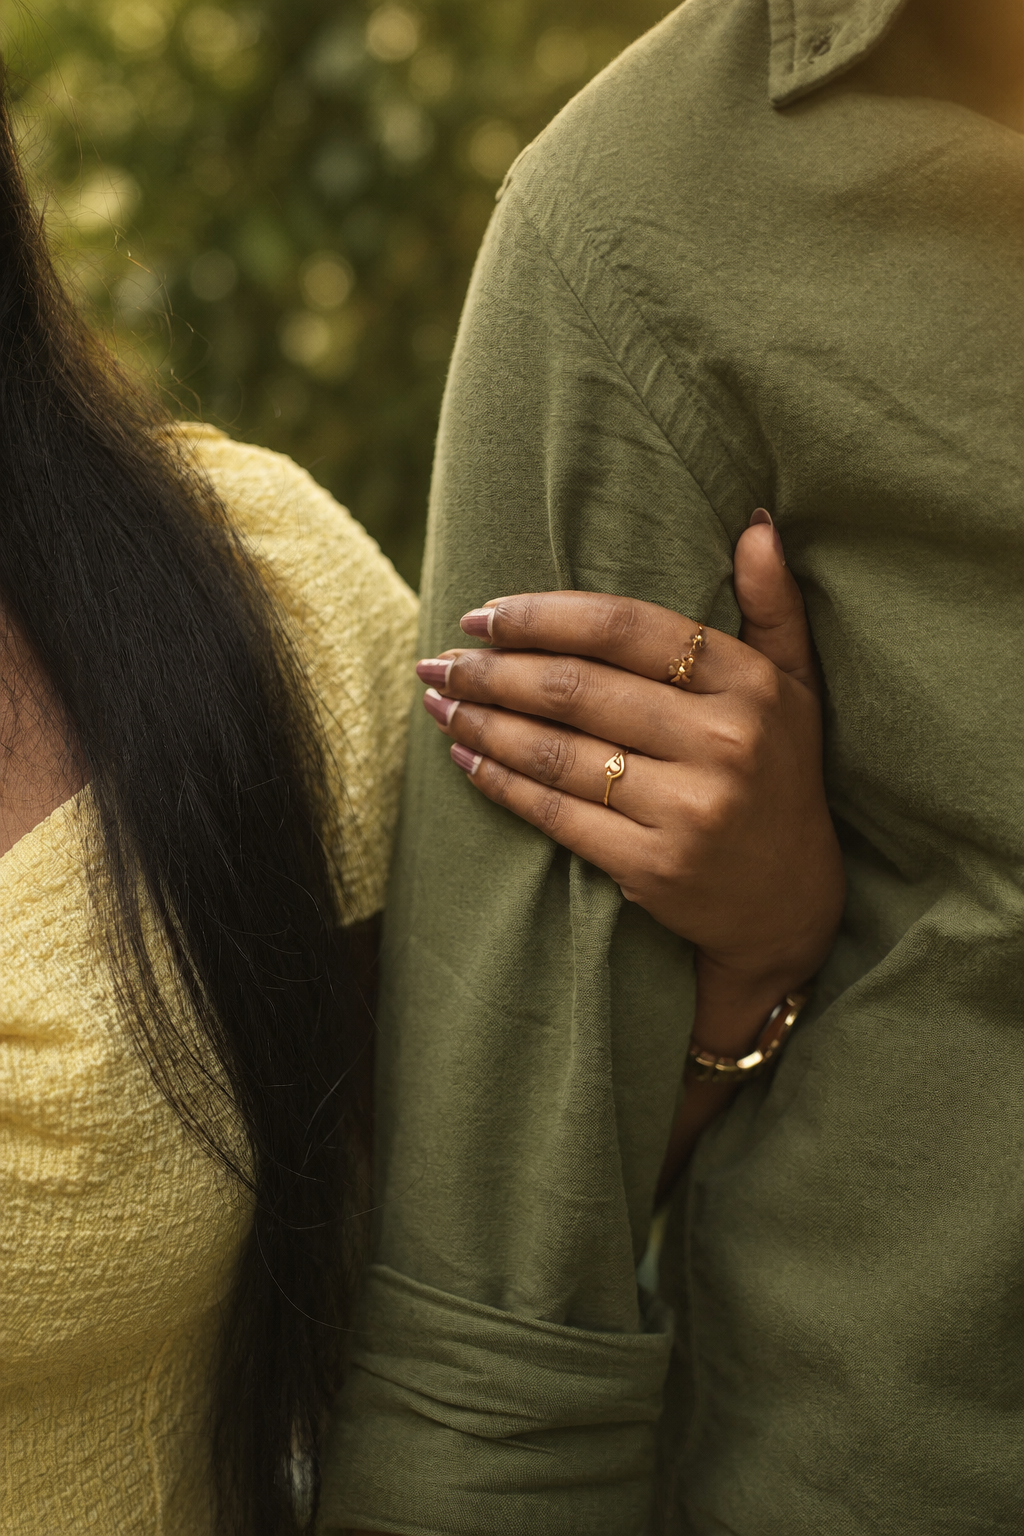
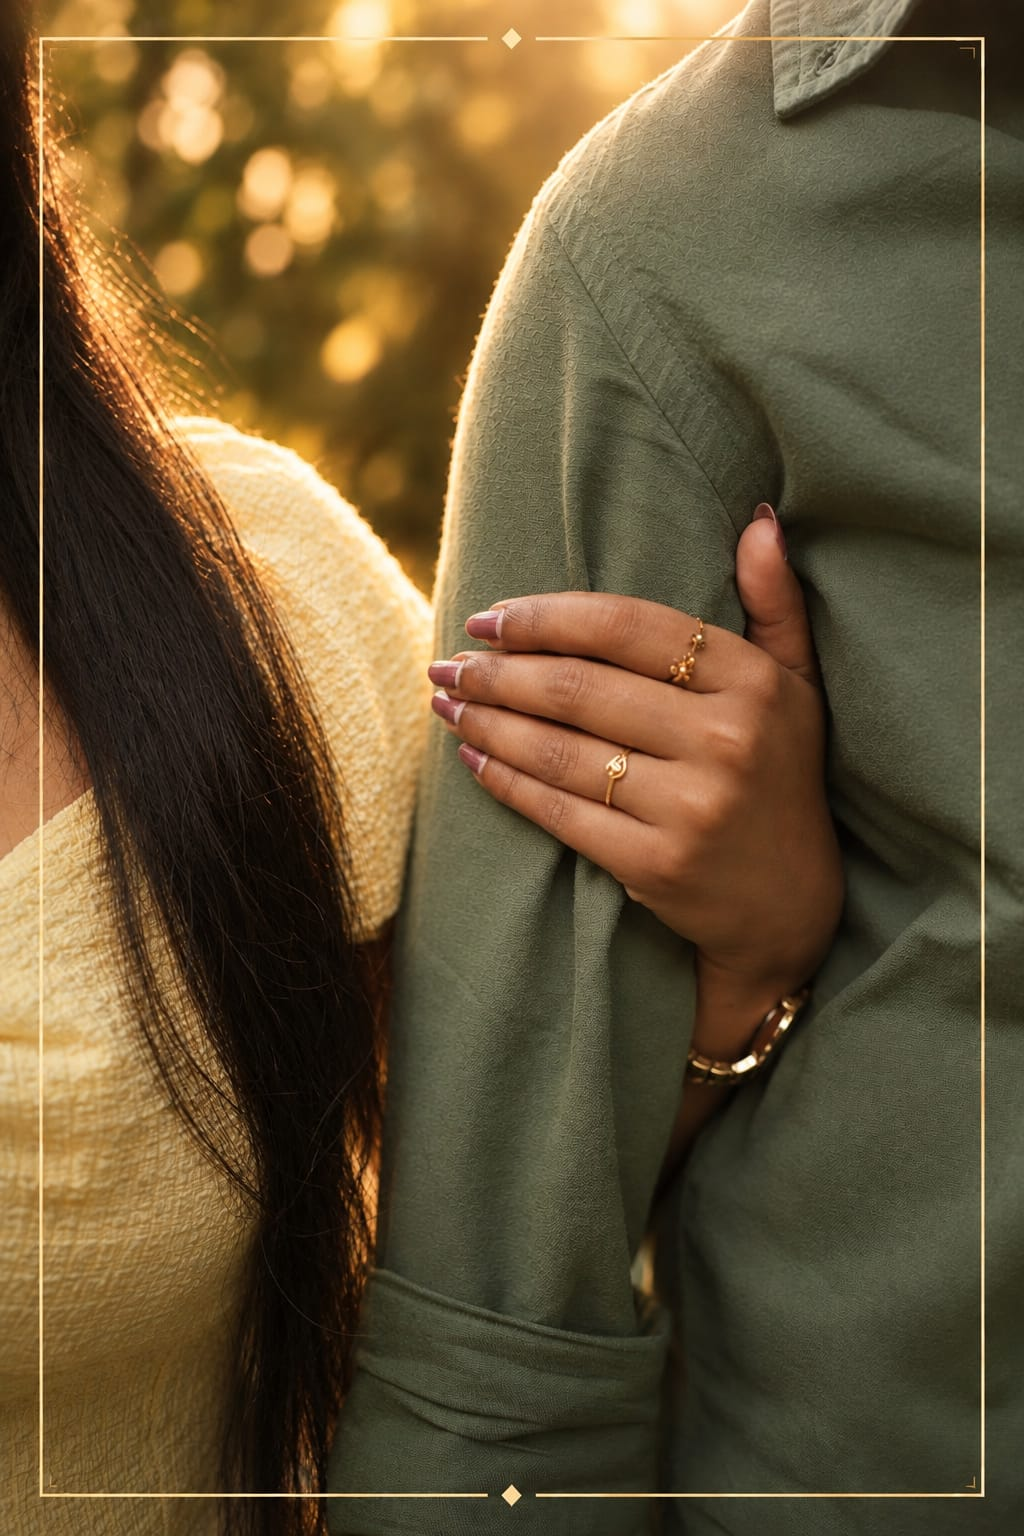
update project

diff --git a/Wedding_Invitation/src/App.jsx b/Wedding_Invitation/src/App.jsx
@@ -40,7 +40,6 @@ function App() {
   const [opened, setOpened] = useState(false);
   const [playing, setPlaying] = useState(false);
   const [musicMuted, setMusicMuted] = useState(false);
-  const [musicNeedsTap, setMusicNeedsTap] = useState(false);
   const [musicPlaybackError, setMusicPlaybackError] = useState(false);
   const [musicUnavailable, setMusicUnavailable] = useState(false);
   const [countdown, setCountdown] = useState(() => getCountdown());
@@ -71,36 +70,21 @@ function App() {
       try {
         await audio.play();
         if (isMounted) {
-          setMusicNeedsTap(false);
           setMusicPlaybackError(false);
         }
       } catch (error) {
         if (!isMounted || error?.name === "AbortError") return;
-        if (error?.name === "NotAllowedError") {
-          setMusicNeedsTap(true);
-        } else {
-          console.error("Wedding music could not be played.", error);
-          setMusicPlaybackError(true);
-        }
+        console.error("Wedding music could not be played.", error);
+        setMusicPlaybackError(true);
       } finally {
         playRequested = false;
       }
     };
     startMusicRef.current = startMusic;
 
-    const startAfterInteraction = (event) => {
-      if (event.target instanceof Element && event.target.closest(".music-button")) return;
-      void startMusic();
-    };
-    window.addEventListener("pointerdown", startAfterInteraction);
-    window.addEventListener("keydown", startAfterInteraction);
-    void startMusic();
-
     return () => {
       isMounted = false;
       startMusicRef.current = null;
-      window.removeEventListener("pointerdown", startAfterInteraction);
-      window.removeEventListener("keydown", startAfterInteraction);
     };
   }, []);
 
@@ -212,6 +196,7 @@ function App() {
 
   const openInvite = () => {
     setOpened(true);
+    void startMusicRef.current?.();
   };
 
   const sendWish = async (event) => {
@@ -264,7 +249,6 @@ function App() {
     audio.muted = false;
     musicMutedRef.current = false;
     setMusicMuted(false);
-    setMusicNeedsTap(false);
     await startMusicRef.current?.();
   };
 
@@ -273,20 +257,35 @@ function App() {
       <section className={`cover ${opened ? "is-open" : "is-closed"}`} aria-label={wedding.copy.coverAria}>
         <img className="cover__image" src={wedding.media.cover} alt={wedding.media.coverDescription} fetchPriority="high" />
         <div className="cover__veil" />
-        <div className="cover__rule" aria-hidden="true"><span>✳</span></div>
+        <div className="cover__rule" aria-hidden="true" />
         <div className="cover__content">
           <p className="eyebrow cover__eyebrow">{wedding.copy.coverEyebrow}</p>
-          <p className="cover__invitation">{wedding.copy.coverIntro}</p>
-          <h1 className="cover__names shine">{coupleName}</h1>
+          <div className="cover__ornament cover__ornament--flower" aria-hidden="true">
+            <span className="cover__ornament-line" />
+            <svg viewBox="0 0 24 24"><g fill="none" stroke="currentColor" strokeWidth=".8"><ellipse cx="12" cy="5.2" rx="2.1" ry="3.2" /><ellipse cx="12" cy="5.2" rx="2.1" ry="3.2" transform="rotate(60 12 12)" /><ellipse cx="12" cy="5.2" rx="2.1" ry="3.2" transform="rotate(120 12 12)" /><circle cx="12" cy="12" r="1.25" /></g></svg>
+            <span className="cover__ornament-line" />
+          </div>
+          <p className="cover__invitation">joyfully invite you to celebrate their wedding</p>
+          <h1 className="cover__names shine">Arun &amp; Anjali</h1>
           <span className="cover__ampersand" aria-hidden="true">&</span>
-          <p className="cover__date">{wedding.date.display}<span>{wedding.date.day} · {wedding.date.time}</span></p>
+          <div className="cover__ornament cover__ornament--sprig" aria-hidden="true">
+            <span className="cover__ornament-line" />
+            <svg viewBox="0 0 42 20"><g fill="none" stroke="currentColor" strokeWidth=".85" strokeLinecap="round" strokeLinejoin="round"><path d="M21 17.5C21 12.5 20.5 7.8 18.5 3"/><path d="M20 14C16.5 13.7 13 12.3 10.5 9.5c3.7-.5 6.8.5 9.5 3"/><path d="M20.5 10C24 9.4 27 7.8 29 5c-3.4-.2-6.5.9-8.5 3.7"/><path d="M20.5 7C18 6.2 16 4.9 14.8 2.8c2.8 0 4.9 1.2 6 3.2"/><path d="M21 14C24.2 14 27.3 15.2 29.8 17.4c-3.3.4-6.3-.6-8.8-2.8"/></g></svg>
+            <span className="cover__ornament-line" />
+          </div>
+          <p className="cover__date"><span>SUNDAY &#183; 12:00 PM</span><span>25 OCTOBER 2026</span></p>
+          <p className="cover__motto">JOIN US FOR A CELEBRATION OF LOVE, FAMILY &amp; TOGETHERNESS</p>
+          <div className="cover__ornament cover__ornament--sprig cover__ornament--bottom" aria-hidden="true">
+            <span className="cover__ornament-line" />
+            <svg viewBox="0 0 42 20"><g fill="none" stroke="currentColor" strokeWidth=".85" strokeLinecap="round" strokeLinejoin="round"><path d="M21 17.5C21 12.5 20.5 7.8 18.5 3"/><path d="M20 14C16.5 13.7 13 12.3 10.5 9.5c3.7-.5 6.8.5 9.5 3"/><path d="M20.5 10C24 9.4 27 7.8 29 5c-3.4-.2-6.5.9-8.5 3.7"/><path d="M20.5 7C18 6.2 16 4.9 14.8 2.8c2.8 0 4.9 1.2 6 3.2"/><path d="M21 14C24.2 14 27.3 15.2 29.8 17.4c-3.3.4-6.3-.6-8.8-2.8"/></g></svg>
+            <span className="cover__ornament-line" />
+          </div>
           <button className="open-button" onClick={openInvite} type="button"><span>{wedding.copy.openButton}</span><ArrowDown size={15} /></button>
         </div>
-        <p className="cover__side-note" aria-hidden="true">{wedding.copy.coverSideNote}</p>
       </section>
 
       <section className="welcome section reveal" id="welcome">
-        <div className="section-flower" aria-hidden="true">✳</div>
+        <div className="section-flower" aria-hidden="true">âœ³</div>
         <p className="eyebrow">{wedding.copy.welcomeEyebrow}</p>
         <h2>{wedding.copy.welcomeHeading}</h2>
         <p className="welcome__names">{coupleName}</p>
@@ -316,7 +315,7 @@ function App() {
           <p className="eyebrow">{wedding.copy.countdownHeading}</p>
           <div className="venue__countdown-grid">{countdownLabels.map((key) => <div className="venue__countdown-unit" key={key}><strong>{countdown[key]}</strong><span>{wedding.copy.countdownLabels[key]}</span></div>)}</div>
         </div>
-        <div className="venue__details"><span>{wedding.date.display}</span><i>✳</i><span>{wedding.date.time}</span></div>
+        <div className="venue__details"><span>{wedding.date.display}</span><i>âœ³</i><span>{wedding.date.time}</span></div>
         <a className="map-button" href={wedding.venue.mapsUrl} target="_blank" rel="noreferrer"><MapPin size={15} />{wedding.copy.mapButton}<ArrowUpRight size={14} /></a>
       </section>
 
@@ -366,8 +365,8 @@ function App() {
         {playing && !musicMuted ? <Pause size={17} /> : <Music2 size={18} />}
         {playing && !musicMuted && <i className="music-button__equalizer" aria-hidden="true"><b /><b /><b /></i>}
       </button>
-      {(musicNeedsTap || musicPlaybackError || musicUnavailable) && <span className="music-button__notice" role="status">{musicUnavailable ? wedding.copy.musicUnavailable : musicNeedsTap ? wedding.copy.musicTapToPlay : wedding.copy.musicPlaybackError}</span>}
-      <audio ref={audioRef} src={wedding.media.music || undefined} preload="metadata" loop onPlay={() => { setPlaying(true); setMusicNeedsTap(false); setMusicPlaybackError(false); }} onPause={() => setPlaying(false)} onVolumeChange={(event) => { musicMutedRef.current = event.currentTarget.muted; setMusicMuted(event.currentTarget.muted); }} onError={() => { setPlaying(false); setMusicUnavailable(true); }} />
+      {(musicPlaybackError || musicUnavailable) && <span className="music-button__notice" role="status">{musicUnavailable ? wedding.copy.musicUnavailable : wedding.copy.musicPlaybackError}</span>}
+      <audio ref={audioRef} src={wedding.media.music || undefined} preload="metadata" loop onPlay={() => { setPlaying(true); setMusicPlaybackError(false); }} onPause={() => setPlaying(false)} onVolumeChange={(event) => { musicMutedRef.current = event.currentTarget.muted; setMusicMuted(event.currentTarget.muted); }} onError={() => { setPlaying(false); setMusicUnavailable(true); }} />
 
       {wishDialogOpen && (
         <div className="wish-dialog-backdrop" onMouseDown={(event) => { if (event.target === event.currentTarget) setWishDialogOpen(false); }}>

diff --git a/Wedding_Invitation/src/invitation.css b/Wedding_Invitation/src/invitation.css
@@ -1,4 +1,4 @@
- @import url('https://fonts.googleapis.com/css2?family=Cormorant+Garamond:ital,wght@0,400;0,500;0,600;1,400;1,500&family=Dancing+Script:wght@500;600;700&family=DM+Sans:wght@400;500;600&family=Playfair+Display:wght@400;500;600&display=swap');
+ @import url('https://fonts.googleapis.com/css2?family=Cormorant+Garamond:ital,wght@0,300;0,400;0,500;1,300;1,400;1,500&family=Dancing+Script:wght@500;600;700&family=DM+Sans:wght@400;500;600&family=Playfair+Display:wght@400;500;600&family=Pinyon+Script&display=swap');
 @import "tailwindcss";
 
 :root {
@@ -50,9 +50,9 @@ button:focus-visible, a:focus-visible { outline: 2px solid var(--sage-deep); out
 .is-open .cover__content { opacity: 0; transform: translateY(-12px) scale(.98); pointer-events: none; }
 .cover__eyebrow { color: var(--gold-light); }
 .cover__invitation { margin: 1.25rem 0 0; color: rgba(250,247,240,.88); font-family: var(--serif); font-size: 1.35rem; font-style: italic; }
-.cover__names { margin: .55rem 0 0; font-family: var(--serif); font-size: 5rem; font-weight: 400; line-height: .9; }
-.shine { color: #f0d79e; background: linear-gradient(105deg, #c29a58 5%, #fff0c4 22%, #ddc183 38%, #fff0c4 54%, #bd9251 72%, #f5e3b5 88%); background-size: 230% auto; background-clip: text; -webkit-background-clip: text; -webkit-text-fill-color: transparent; animation: golden-shine 8s linear infinite; }
-.cover__ampersand { display: block; margin: -.15rem 0; color: var(--gold-light); font-family: var(--serif); font-size: 1.7rem; font-style: italic; }
+.cover__names { margin: .55rem 0 0; color: #FDE6C; font-family: "Edwardian Script ITC", "Segoe Script", cursive; font-size: 5rem; font-weight: 400; letter-spacing: normal; line-height: .9; }
+.shine { color: #FDE6C; background: none; background-clip: border-box; -webkit-background-clip: border-box; -webkit-text-fill-color: #FDE6C; animation: none; }
+.cover__ampersand { display: block; margin: -.15rem 0; color: #FDE6C; font-family: "Edwardian Script ITC", "Segoe Script", cursive; font-size: 1.7rem; font-style: normal; font-weight: 400; letter-spacing: normal; }
 .cover__date { margin: 1rem 0 0; color: #f2e4c9; font-family: var(--serif); font-size: 1.45rem; }
 .cover__date span { display: block; margin-top: .4rem; color: rgba(255,250,241,.78); font-family: "DM Sans", sans-serif; font-size: .65rem; letter-spacing: .17em; text-transform: uppercase; }
 .open-button { display: inline-flex; align-items: center; justify-content: center; gap: .75rem; min-height: 48px; margin-top: 2.2rem; padding: 0 1.25rem; border: 1px solid rgba(237,216,173,.8); color: #fff9ed; background: rgba(34,47,40,.24); cursor: pointer; font-size: .65rem; letter-spacing: .16em; text-transform: uppercase; transition: background .25s ease, color .25s ease; }
@@ -63,7 +63,7 @@ button:focus-visible, a:focus-visible { outline: 2px solid var(--sage-deep); out
 .welcome { position: relative; display: grid; min-height: 100svh; align-content: center; justify-items: center; padding-top: 8rem; padding-bottom: 8rem; text-align: center; background-color: var(--paper); background-image: radial-gradient(rgba(180,139,83,.16) .7px, transparent .7px); background-size: 18px 18px; }
 .section-flower { margin-bottom: 1.15rem; color: var(--sage-deep); font-size: 1.25rem; }
 .welcome h2, .story h2, .gallery-heading h2, .venue h2, .closing h2 { margin: 1rem 0; font-family: var(--serif); font-size: 3.5rem; font-weight: 400; line-height: .98; }
-.welcome__names { margin: .8rem 0 1.5rem; color: var(--sage-deep); font-family: var(--serif); font-size: 1.65rem; font-style: italic; }
+.welcome__names { margin: .8rem 0 1.5rem; color: var(--sage-deep); font-family: var(--serif); font-size: 1.65rem; font-style: normal; font-weight: 400; letter-spacing: normal; }
 .welcome__message { max-width: 530px; margin: 0 auto; color: var(--muted); font-family: var(--serif); font-size: 1.4rem; line-height: 1.5; }
 .gold-line { display: block; width: 46px; height: 1px; margin: 1.8rem auto; background: var(--gold); }
 .welcome__family { margin: 0; color: var(--muted); font-size: .65rem; letter-spacing: .12em; text-transform: uppercase; }
@@ -325,4 +325,34 @@ body { font-size: 16px; }
 
 .cover__image {
   filter: saturate(.9) sepia(.035) hue-rotate(8deg) brightness(.86) contrast(1.08);
+}
+
+/* Cover typography tuned to the reference invitation. */
+.cover__content { width: min(94%, 900px); }
+.cover__eyebrow { color: #E2D0A5; font-family: "Cormorant Garamond", Georgia, serif; font-size: clamp(.8rem, 1.25vw, 1rem); font-weight: 400; letter-spacing: .2em; }
+.cover__invitation { margin-top: 1.2rem; color: #E8DFC7; font-family: "Cormorant Garamond", Georgia, serif; font-size: clamp(1.05rem, 2.15vw, 1.5rem); font-style: italic; font-weight: 400; letter-spacing: .035em; line-height: 1.25; }
+.cover__names { max-width: 100%; margin: .6rem auto 0; color: #E2D0A5; background: linear-gradient(105deg, #E2D0A5 0%, #E9D6A2 46%, #E2D0A5 100%); background-clip: text; -webkit-background-clip: text; font-family: "Edwardian Script ITC", "Pinyon Script", cursive; font-size: clamp(3.05rem, 11.2vw, 7.25rem); font-weight: 400; letter-spacing: -.025em; line-height: 1.08; white-space: nowrap; -webkit-text-fill-color: transparent; }
+.cover .shine { color: #E2D0A5; background: linear-gradient(105deg, #E2D0A5 0%, #E9D6A2 46%, #E2D0A5 100%); background-clip: text; -webkit-background-clip: text; -webkit-text-fill-color: transparent; }
+.cover__ampersand { display: none; }
+.cover__ornament { display: flex; align-items: center; justify-content: center; gap: .38rem; color: #E2D0A5; line-height: 1; }
+.cover__ornament-line { display: block; width: 27px; height: 1px; flex: 0 0 27px; background: rgba(226, 208, 165, .78); }
+.cover__ornament svg { display: block; overflow: visible; }
+.cover__ornament--flower { margin: .45rem auto .7rem; }
+.cover__ornament--flower svg { width: 18px; height: 18px; }
+.cover__ornament--sprig { gap: .32rem; margin: .3rem auto .1rem; }
+.cover__ornament--sprig .cover__ornament-line { width: 35px; flex-basis: 35px; }
+.cover__ornament--sprig svg { width: 33px; height: 16px; }
+.cover__ornament--bottom { margin: .35rem auto 0; }
+.cover__date { display: flex; flex-direction: column; gap: .28rem; margin: 1rem 0 0; color: #E8DFC7; font-family: "Cormorant Garamond", Georgia, serif; font-size: clamp(1.28rem, 2.4vw, 1.8rem); font-weight: 400; letter-spacing: .17em; line-height: 1.2; text-transform: uppercase; }
+.cover__date span { margin: 0; color: #E8DFC7; font-family: "Cormorant Garamond", Georgia, serif; font-size: .72em; font-weight: 400; letter-spacing: .2em; }
+.cover__date span + span { font-size: 1em; letter-spacing: .16em; }
+.cover__motto { max-width: 100%; margin: .45rem auto 0; color: #E8DFC7; font-family: "Cormorant Garamond", Georgia, serif; font-size: clamp(.55rem, .9vw, .68rem); font-weight: 400; letter-spacing: .09em; line-height: 1.4; text-align: center; text-wrap: balance; }
+@media (max-width: 700px) {
+  .cover__names { font-size: clamp(2.85rem, 12.2vw, 5rem); }
+  .cover__invitation { font-size: clamp(1.02rem, 4.5vw, 1.3rem); }
+  .cover__date { font-size: clamp(1.15rem, 4.8vw, 1.4rem); }
+}
+@media (max-width: 360px) {
+  .cover__names { font-size: 10.5vw; letter-spacing: -.04em; }
+  .cover__content { width: 96%; padding-right: .25rem; padding-left: .25rem; }
 }

diff --git a/Wedding_Invitation/src/data/wedding.js b/Wedding_Invitation/src/data/wedding.js
@@ -16,31 +16,31 @@ export const wedding = {
       "https://www.google.com/maps/search/?api=1&query=E+M+S+Mini+Town+Hall%2C+Perumbavoor%2C+Kerala",
   },
   message:
-    "With full hearts, we invite you to be part of the day we begin our forever. Your presence, blessings, and love will make our celebration complete.",
+    "With full hearts, we invite you to share in the day we begin our forever together. Your presence, blessings, and love will make our celebration complete.",
   copy: {
     pageTitle: "{couple} | Wedding Invitation",
     metaDescription: "With full hearts, {couple} invite you to celebrate their wedding on {date} at {venue}.",
     coverAria: "Opening wedding invitation cover",
-    coverEyebrow: "Together with their families",
-    coverIntro: "joyfully invite you to celebrate their wedding",
+    coverEyebrow: "TOGETHER WITH OUR FAMILIES",
+    coverIntro: "joyfully invite you to celebrate our wedding",
     coverSideNote: "A day to remember · 2026",
-    openButton: "Open the invitation",
-    welcomeEyebrow: "A beginning, blessed by you",
+    openButton: "VIEW THE INVITATION",
+    welcomeEyebrow: "A NEW BEGINNING, BLESSED BY YOU",
     welcomeHeading: "Two hearts. One beautiful story.",
-    familyNote: "With love, laughter & the blessings of our families",
+    familyNote: "WITH LOVE, LAUGHTER & OUR FAMILIES' BLESSINGS",
     countdownAria: "Countdown to the wedding",
     countdownHeading: "Until our forever begins",
     countdownLabels: { days: "Days", hours: "Hours", minutes: "Minutes", seconds: "Seconds" },
     storyImageNote: "A moment, just for us",
     storyEyebrow: "Our story",
     storyHeading: "And then, there was us.",
-    storyText: "Somewhere between the ordinary days and little unexpected moments, we found a love that feels like home. Now, with our favourite people around us, we can’t wait to begin our next chapter.",
+    storyText: "Somewhere between ordinary days and little unexpected moments, we found a love that feels like home. Now, surrounded by our favourite people, we can’t wait to begin our next chapter together.",
     storyCaption: "The start of our always",
     galleryEyebrow: "A few favourite moments",
     galleryHeading: "The days that brought us here",
     galleryNote: "A little look at our story",
-    venueEyebrow: "Meet us here",
-    venueNote: "We would be honoured to celebrate this day with you. Come as you are, bring your blessings, and make a memory with us.",
+    venueEyebrow: "JOIN US HERE",
+    venueNote: "We would be honoured to celebrate this special day with you. Come as you are, bring your blessings, and create beautiful memories with us.",
     mapButton: "View on Google Maps",
     closingEyebrow: "With all our love",
     closingHeading: "Your presence is our present.",
@@ -66,7 +66,7 @@ export const wedding = {
     musicOn: "Turn wedding music on",
     musicOff: "Our song",
     musicUnavailable: "Wedding music is unavailable",
-    musicTapToPlay: "Tap the music button to start playback",
+    musicTapToPlay: "Tap the music button to play the music.",
     musicPlaybackError: "Wedding music could not be played. Tap to try again.",
   },
   media: {
